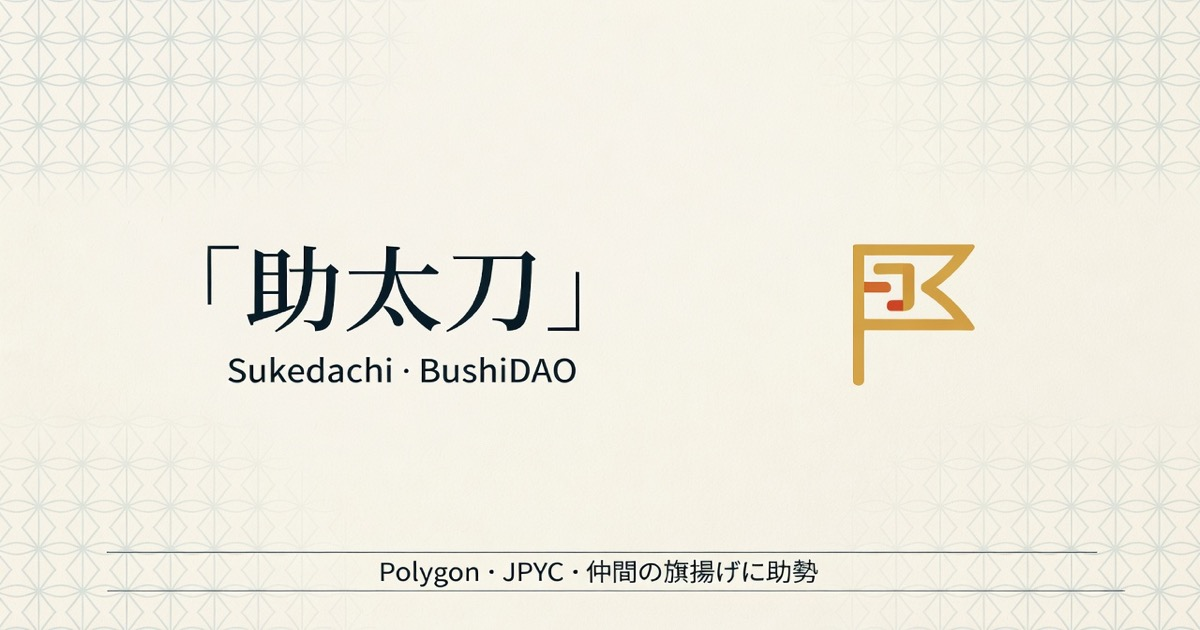
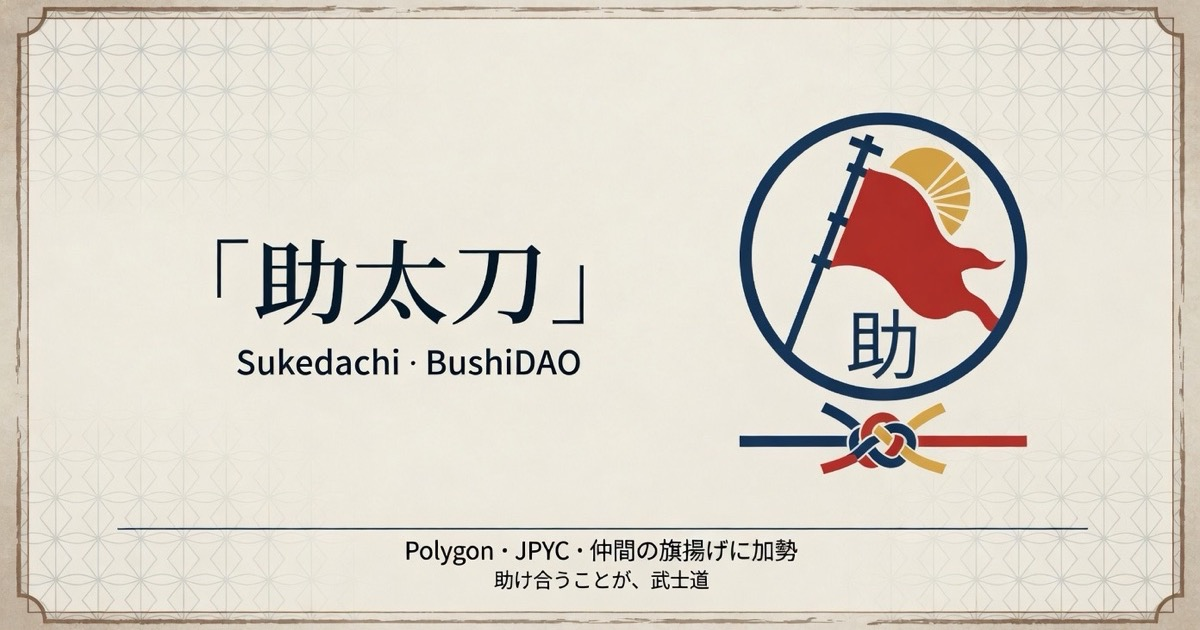
feat: OG A FINAL as og-share.jpg (1200x630) + cache-bust v=20260823

Changed region(s): [[0.0, 0.0, 1.0, 1.0], [0.6167, 0.181, 0.8633, 0.754], [0.1542, 0.3619, 0.4933, 0.6333]]

diff --git a/index.html b/index.html
@@ -27,7 +27,7 @@
     />
     <meta
       property="og:image"
-      content="https://gpro8.github.io/sukedachi-site/og-share.jpg"
+      content="https://gpro8.github.io/sukedachi-site/og-share.jpg?v=20260823"
     />
     <meta property="og:image:type" content="image/jpeg" />
     <meta property="og:image:width" content="1200" />
@@ -46,7 +46,7 @@
     />
     <meta
       name="twitter:image"
-      content="https://gpro8.github.io/sukedachi-site/og-share.jpg"
+      content="https://gpro8.github.io/sukedachi-site/og-share.jpg?v=20260823"
     />
     <meta
       name="twitter:image:alt"

diff --git a/workers/polygon-rpc/src/index.js b/workers/polygon-rpc/src/index.js
@@ -912,7 +912,7 @@ export default {
       }
       const site = `https://gpro8.github.io/sukedachi-site/?c=${c}`;
       const shareSelf = `https://sukedachi-polygon-rpc.bushidao.workers.dev/share?c=${c}`;
-      const img = "https://gpro8.github.io/sukedachi-site/og-share.jpg";
+      const img = "https://gpro8.github.io/sukedachi-site/og-share.jpg?v=20260823";
       let title = "助太刀 Sukedachi";
       let desc = "Polygon · JPYC · BushiDAO";
       const alchemy = env.POLYGON_RPC_URL;
